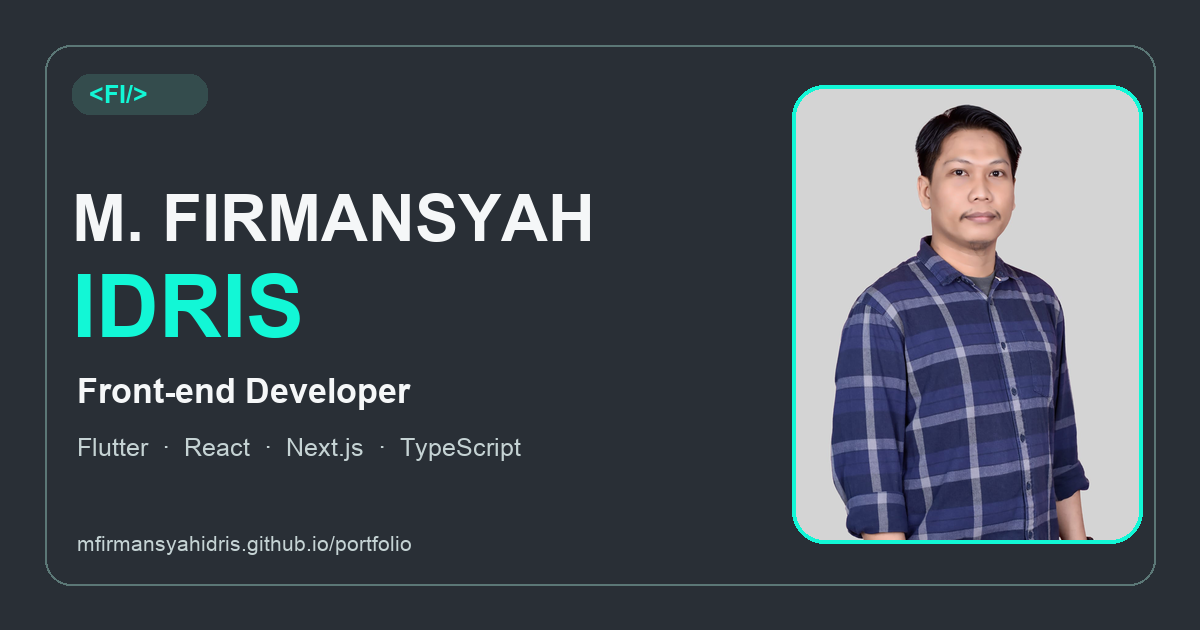
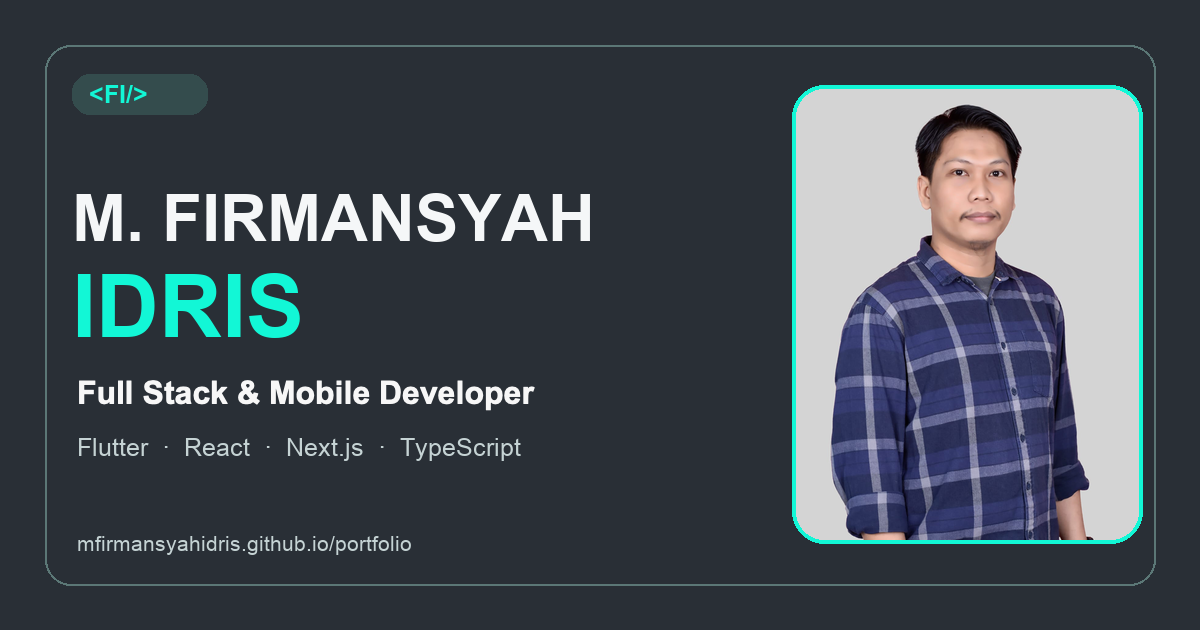
Update title, experience timeline, and apps
- Retitle to Full Stack & Mobile Developer, including the social preview image
- Replace experience with eight roles, each with location, summary, and tech stack
- Add One Sunnah to published apps
- Fix heading order, simplify hero, and unify status badge colors

Changed region(s): [[0.0617, 0.6032, 0.4625, 0.6635]]

diff --git a/style.css b/style.css
@@ -1,12 +1,12 @@
 
-:root{--ink:#f5f7f8;--muted:#bec8cd;--paper:#292f36;--blue:#12f7d6;--line:#465057;--surface:#22282e;--lime:#12f7d6;--mono:"SFMono-Regular",Consolas,"Liberation Mono",monospace}*{box-sizing:border-box}html{scroll-behavior:smooth;scroll-padding-top:50px}body{margin:0;background:var(--paper);color:var(--ink);font-family:Arial,Helvetica,sans-serif;font-size:16px;line-height:1.7}a{color:inherit;text-decoration:none}a:hover{color:var(--blue)}a:focus-visible,button:focus-visible{outline:2px solid var(--blue);outline-offset:5px}p{margin:0 0 22px}h1,h2,h3,h4{line-height:1.2;margin:0;font-weight:500;letter-spacing:-.025em}.wrap{width:min(1260px,calc(100% - 100px));margin:auto}.header{width:min(1380px,calc(100% - 80px));min-height:115px;margin:auto;display:flex;align-items:center;justify-content:space-between;gap:24px;border-bottom:1px solid var(--line);font-family:var(--mono)}.wordmark{font-size:1.35rem;white-space:nowrap}.wordmark>span:first-child{color:var(--blue);font-weight:700}.brand-last{color:var(--ink)}nav{display:flex;gap:28px;font-size:.9rem}.nav-cv{font-size:.85rem;color:var(--blue)}.hero{padding:36px 0 45px}.hero-title{text-align:center;font-size:clamp(3rem,6.5vw,6rem);line-height:1.2;color:#98faec;font-weight:300;letter-spacing:-.035em;margin-bottom:45px}.hero-layout{display:grid;grid-template-columns:290px minmax(0,1fr) 155px;gap:45px;align-items:center}.profile-card{border:2px solid #dce7e7;border-radius:110px 0 110px 0;box-shadow:-5px -5px 0 #12f7d6;padding:28px 22px 35px;font-family:var(--mono);text-align:center}.profile-card>img{display:block;width:106px;height:106px;object-fit:cover;object-position:50% 9%;border-radius:50%;border:3px solid var(--blue);margin:0 auto 16px}.profile-card h2{font-size:1.75rem}.profile-role{font-size:.78rem;margin:5px 0 23px}.profile-details{list-style:none;padding:0;margin:0;text-align:left;font-size:.72rem}.profile-details li{display:flex;align-items:center;gap:9px;margin-bottom:10px}.profile-details li>span{color:var(--blue);width:20px;flex-shrink:0}.profile-details a{overflow-wrap:anywhere}.profile-tags{display:flex;gap:7px;margin:20px 0;justify-content:center}.profile-tags span{background:var(--blue);color:#173530;border-radius:20px;padding:2px 8px;font-size:.67rem;font-weight:700}.button{display:inline-block;padding:12px 22px;border-radius:30px;border:0;cursor:pointer;font:inherit;font-size:.9rem}.resume{background:#f5f7f8;color:#292f36}.resume:hover{background:var(--blue);color:#182b2a}.code-tag{font-family:var(--mono);font-size:.85rem;color:#7ed8cb}.hero-copy h1{font-size:clamp(2rem,3.1vw,3.15rem);line-height:1.3;margin:8px 0 8px 15px;letter-spacing:-.035em}.hero-copy em{font-style:normal;color:var(--blue)}.intro-block{margin-top:23px}.intro{font-size:.94rem;color:var(--muted);margin:8px 0 8px 15px;max-width:530px}.talk-link{display:inline-flex;gap:18px;align-items:center;color:var(--blue);font-family:var(--mono);font-size:1.4rem;margin:25px 0 0 15px}.talk-link span{display:grid;place-items:center;width:38px;height:38px;background:#38434a;border-radius:50%;font-size:1.2rem}.hero-facts{background:#1f252b;border-radius:48px;padding:30px 20px;display:flex;flex-direction:column;gap:28px}.hero-facts>div{display:flex;align-items:center;gap:12px}.hero-facts strong{font-size:2rem;color:var(--blue);font-weight:400;white-space:nowrap}.hero-facts span{font-size:.7rem;line-height:1.5}.hero-location{text-align:center;color:var(--muted);font-family:var(--mono);font-size:.72rem;margin:35px 0 0}.stack-band{background:#23292f;border-top:1px solid var(--line);border-bottom:1px solid var(--line);padding:22px 0}.stack-band .wrap{display:flex;justify-content:space-between;align-items:center;gap:25px}.stack-band span{font:.75rem var(--mono);color:var(--blue)}.stack-band p{margin:0;color:var(--muted);font-family:var(--mono);font-size:.9rem}.stack-band b{color:var(--blue);margin:0 12px;font-weight:400}.section{padding:90px 0}.eyebrow{font: .75rem var(--mono);letter-spacing:.12em;color:var(--blue);margin-bottom:20px}h2{font-size:clamp(2rem,3.6vw,3.4rem)}.section-heading{display:grid;grid-template-columns:1fr 1fr;gap:90px;align-items:end;margin-bottom:45px}.section-heading>p{color:var(--muted);max-width:500px;margin:0}.about-section{background:#22282e;border-top:1px solid var(--line);border-bottom:1px solid var(--line)}.about-grid{display:grid;grid-template-columns:1fr 1fr;gap:100px}.about-grid h2{border:1px solid var(--blue);border-radius:28px 0 28px 0;padding:20px 25px;margin-bottom:28px;font-size:2.5rem}.about-grid>div>p:not(.eyebrow){color:var(--muted)}.education{padding-top:25px;margin-top:30px;border-top:1px solid var(--line)}.education>span{color:var(--blue);font:.8rem var(--mono)}.education p{font-size:.9rem;color:var(--muted);margin-top:10px}.experience>h3{font:1.1rem var(--mono);margin-bottom:23px}.experience-row{position:relative;border-left:1px solid #46635f;padding:0 0 26px 24px}.experience-row:before{content:"";position:absolute;width:7px;height:7px;left:-4px;top:8px;background:var(--blue);border-radius:50%}.experience-row h4{font-size:1.15rem}.experience-row p{font-size:.85rem;color:#a4e6de;margin:6px 0 3px}.experience-row span{font-size:.8rem;color:var(--muted)}.text-link{color:var(--blue);text-decoration:underline;text-underline-offset:6px;font-size:.9rem}.contact{text-align:center}.contact h2{color:var(--blue);font-family:var(--mono)}.contact>p:not(.eyebrow){color:var(--muted);margin-top:25px}.email{display:inline-block;border:1px solid var(--blue);border-radius:28px 0 28px 0;padding:17px 25px;font:clamp(.95rem,2vw,1.35rem) var(--mono);overflow-wrap:anywhere;max-width:100%}.contact-links{display:flex;justify-content:center;gap:35px;margin-top:30px;font:.85rem var(--mono);color:var(--blue)}.footer{border-top:1px solid var(--line);display:flex;justify-content:space-between;gap:20px;padding:25px 0;font-size:.75rem;color:var(--muted)}.skip{position:absolute;top:-100px;background:var(--blue);color:#111;padding:12px;z-index:20}.skip:focus{top:10px}.secondary{background:transparent;color:var(--ink);border:1px solid var(--line)}
+:root{--ink:#f5f7f8;--muted:#bec8cd;--paper:#292f36;--blue:#12f7d6;--line:#465057;--surface:#22282e;--lime:#12f7d6;--mono:"SFMono-Regular",Consolas,"Liberation Mono",monospace}*{box-sizing:border-box}html{scroll-behavior:smooth;scroll-padding-top:50px}body{margin:0;background:var(--paper);color:var(--ink);font-family:Arial,Helvetica,sans-serif;font-size:16px;line-height:1.7}a{color:inherit;text-decoration:none}a:hover{color:var(--blue)}a:focus-visible,button:focus-visible{outline:2px solid var(--blue);outline-offset:5px}p{margin:0 0 22px}h1,h2,h3,h4{line-height:1.2;margin:0;font-weight:500;letter-spacing:-.025em}.wrap{width:min(1260px,calc(100% - 100px));margin:auto}.header{width:min(1380px,calc(100% - 80px));min-height:115px;margin:auto;display:flex;align-items:center;justify-content:space-between;gap:24px;border-bottom:1px solid var(--line);font-family:var(--mono)}.wordmark{font-size:1.35rem;white-space:nowrap}.wordmark>span:first-child{color:var(--blue);font-weight:700}.brand-last{color:var(--ink)}nav{display:flex;gap:28px;font-size:.9rem}.nav-cv{font-size:.85rem;color:var(--blue)}.hero{padding:36px 0 45px}.hero-title{text-align:center;font-size:clamp(3rem,6.5vw,6rem);line-height:1.2;color:#98faec;font-weight:300;letter-spacing:-.035em;margin-bottom:45px}.hero-layout{display:grid;grid-template-columns:290px minmax(0,1fr) 155px;gap:45px;align-items:center}.profile-card{border:2px solid #dce7e7;border-radius:110px 0 110px 0;box-shadow:-5px -5px 0 #12f7d6;padding:28px 22px 35px;font-family:var(--mono);text-align:center}.profile-card>img{display:block;width:106px;height:106px;object-fit:cover;object-position:50% 9%;border-radius:50%;border:3px solid var(--blue);margin:0 auto 16px}.profile-name{font-size:1.75rem;line-height:1.2;letter-spacing:-.025em;margin:0}.profile-role{font-size:.78rem;margin:5px 0 23px}.profile-details{list-style:none;padding:0;margin:0;text-align:left;font-size:.72rem}.profile-details li{display:flex;align-items:center;gap:9px;margin-bottom:10px}.profile-details li>span{color:var(--blue);width:20px;flex-shrink:0}.profile-details a{overflow-wrap:anywhere}.profile-tags{display:flex;gap:7px;margin:20px 0;justify-content:center}.profile-tags span{background:var(--blue);color:#173530;border-radius:20px;padding:2px 8px;font-size:.67rem;font-weight:700}.button{display:inline-block;padding:12px 22px;border-radius:30px;border:0;cursor:pointer;font:inherit;font-size:.9rem}.resume{background:#f5f7f8;color:#292f36}.resume:hover{background:var(--blue);color:#182b2a}.code-tag{font-family:var(--mono);font-size:.85rem;color:#7ed8cb}.hero-copy h1{font-size:clamp(2rem,3.1vw,3.15rem);line-height:1.3;margin:8px 0 8px 15px;letter-spacing:-.035em}.hero-copy em{font-style:normal;color:var(--blue)}.intro-block{margin-top:23px}.intro{font-size:.94rem;color:var(--muted);margin:8px 0 8px 15px;max-width:530px}.talk-link{display:inline-flex;gap:18px;align-items:center;color:var(--blue);font-family:var(--mono);font-size:1.4rem;margin:25px 0 0 15px}.talk-link span{display:grid;place-items:center;width:38px;height:38px;background:#38434a;border-radius:50%;font-size:1.2rem}.hero-facts{background:#1f252b;border-radius:48px;padding:30px 20px;display:flex;flex-direction:column;gap:28px}.hero-facts>div{display:flex;align-items:center;gap:12px}.hero-facts strong{font-size:2rem;color:var(--blue);font-weight:400;white-space:nowrap}.hero-facts span{font-size:.7rem;line-height:1.5}.hero-location{text-align:center;color:var(--muted);font-family:var(--mono);font-size:.72rem;margin:35px 0 0}.stack-band{background:#23292f;border-top:1px solid var(--line);border-bottom:1px solid var(--line);padding:22px 0}.stack-band .wrap{display:flex;justify-content:space-between;align-items:center;gap:25px}.stack-band span{font:.75rem var(--mono);color:var(--blue)}.stack-band p{margin:0;color:var(--muted);font-family:var(--mono);font-size:.9rem}.stack-band b{color:var(--blue);margin:0 12px;font-weight:400}.section{padding:90px 0}.eyebrow{font: .75rem var(--mono);letter-spacing:.12em;color:var(--blue);margin-bottom:20px}h2{font-size:clamp(2rem,3.6vw,3.4rem)}.section-heading{display:grid;grid-template-columns:1fr 1fr;gap:90px;align-items:end;margin-bottom:45px}.section-heading>p{color:var(--muted);max-width:500px;margin:0}.about-section{background:#22282e;border-top:1px solid var(--line);border-bottom:1px solid var(--line)}.about-grid{display:grid;grid-template-columns:1fr 1fr;gap:100px}.about-grid h2{border:1px solid var(--blue);border-radius:28px 0 28px 0;padding:20px 25px;margin-bottom:28px;font-size:2.5rem}.about-grid>div>p:not(.eyebrow){color:var(--muted)}.education{padding-top:25px;margin-top:30px;border-top:1px solid var(--line)}.education>span{color:var(--blue);font:.8rem var(--mono)}.education p{font-size:.9rem;color:var(--muted);margin-top:10px}.experience>h3{font:1.1rem var(--mono);margin-bottom:23px}.experience-row{position:relative;border-left:1px solid #46635f;padding:0 0 26px 24px}.experience-row:before{content:"";position:absolute;width:7px;height:7px;left:-4px;top:8px;background:var(--blue);border-radius:50%}.experience-row h4{font-size:1.15rem}.experience-row p{font-size:.85rem;color:#a4e6de;margin:6px 0 3px}.experience-row span{font-size:.8rem;color:var(--muted)}.text-link{color:var(--blue);text-decoration:underline;text-underline-offset:6px;font-size:.9rem}.contact{text-align:center}.contact h2{color:var(--blue);font-family:var(--mono)}.contact>p:not(.eyebrow){color:var(--muted);margin-top:25px}.email{display:inline-block;border:1px solid var(--blue);border-radius:28px 0 28px 0;padding:17px 25px;font:clamp(.95rem,2vw,1.35rem) var(--mono);overflow-wrap:anywhere;max-width:100%}.contact-links{display:flex;justify-content:center;gap:35px;margin-top:30px;font:.85rem var(--mono);color:var(--blue)}.footer{border-top:1px solid var(--line);display:flex;justify-content:space-between;gap:20px;padding:25px 0;font-size:.75rem;color:var(--muted)}.skip{position:absolute;top:-100px;background:var(--blue);color:#111;padding:12px;z-index:20}.skip:focus{top:10px}.secondary{background:transparent;color:var(--ink);border:1px solid var(--line)}
 @media(max-width:1100px){.hero-layout{grid-template-columns:260px 1fr;gap:40px}.hero-facts{grid-column:1/-1;flex-direction:row;justify-content:center;gap:50px;padding:20px;border-radius:18px}.hero-facts span{font-size:.8rem}.hero-copy h1{font-size:2.6rem}.brand-last{display:none}.about-grid{gap:45px}}@media(max-width:700px){.wrap,.header{width:calc(100% - 40px)}.header{min-height:90px;flex-wrap:wrap;justify-content:center;gap:12px;padding:17px 0}.wordmark{font-size:1.2rem}.header nav{gap:20px;font-size:.75rem}.nav-cv{display:none}.hero{padding-top:25px}.hero-title{font-size:3.4rem;margin-bottom:35px}.hero-layout{display:flex;flex-direction:column;gap:35px}.profile-card{width:285px;max-width:100%;padding-bottom:28px}.hero-copy{width:100%}.hero-copy h1{font-size:clamp(1.8rem,7.5vw,2.7rem)}.intro{font-size:.94rem}.hero-facts{width:100%;gap:18px;padding:18px 10px;justify-content:space-around}.hero-facts>div{display:block;text-align:center}.hero-facts strong{font-size:1.65rem}.hero-facts span{display:block;font-size:.7rem;margin-top:3px}.hero-location{font-size:.7rem}.stack-band .wrap{display:block}.stack-band p{margin-top:10px;font-size:.8rem;line-height:2}.stack-band b{margin:0 7px}.section{padding:60px 0}.section-heading,.about-grid{grid-template-columns:1fr;gap:25px}.section-heading{margin-bottom:30px}.about-grid{gap:40px}.about-grid h2{font-size:2rem}.contact-links{gap:25px}.footer{flex-wrap:wrap}.footer span:first-child{width:100%}}@media(prefers-reduced-motion:reduce){html{scroll-behavior:auto}}
 /* Approach and interactive React demo */
 .approach-grid{display:grid;grid-template-columns:repeat(3,1fr);gap:28px}.approach{border-top:2px solid var(--ink);padding-top:24px}.approach-number{display:block;color:var(--blue);font-size:.8rem;font-weight:700;margin-bottom:26px}.approach h3{font-size:1.45rem;margin-bottom:18px;letter-spacing:-.035em}.approach p{font-size:.95rem;color:var(--muted)}.approach-foot{display:block;font-size:.8rem;color:var(--muted)}.demo-heading{display:grid;grid-template-columns:1fr 1fr;gap:50px;margin:70px 0 26px;align-items:end}.demo-heading .eyebrow{color:var(--blue);margin-bottom:14px}.demo-heading h3{font-size:2rem}.demo-heading>p{color:var(--muted);font-size:.95rem;margin:0}.dashboard{background:var(--surface);border:1px solid var(--line);border-radius:10px;padding:28px}.dashboard-top{display:flex;justify-content:space-between;align-items:center;gap:20px}.demo-kicker{font-size:.75rem;letter-spacing:.08em;color:var(--muted);font-weight:700}.dashboard-top h4{font-size:1.4rem;margin-top:8px}.sample-badge{padding:5px 12px;background:white;border:1px solid var(--line);border-radius:20px;color:var(--muted);font-size:.8rem}.metrics{display:grid;grid-template-columns:repeat(3,1fr);gap:14px;margin:25px 0}.metric{background:white;border:1px solid var(--line);padding:18px 22px;border-radius:6px}.metric span{display:block;color:var(--muted);font-size:.8rem}.metric strong{font-size:2rem;line-height:1.4}.demo-controls{display:grid;grid-template-columns:2fr 1fr 1fr;gap:14px}.demo-controls label{font-size:.8rem;font-weight:600}.demo-controls input,.demo-controls select{display:block;width:100%;margin-top:6px;min-height:44px;border:1px solid #adb9cd;border-radius:5px;background:white;color:var(--ink);padding:10px;font:inherit;font-size:.9rem}.demo-controls input:focus-visible,.demo-controls select:focus-visible,.dashboard button:focus-visible{outline:3px solid var(--blue);outline-offset:3px}.result-count{font-size:.8rem;color:var(--muted);margin:18px 0 12px}.demo-content{display:grid;grid-template-columns:1.8fr 1fr;gap:18px;align-items:start}.project-list{background:white;border:1px solid var(--line);border-radius:6px;overflow:hidden}.demo-row{display:grid;grid-template-columns:1.5fr 1fr .6fr;gap:12px;text-align:left;align-items:center;width:100%;padding:18px;border:0;border-bottom:1px solid var(--line);background:white;color:var(--ink);cursor:pointer;font:inherit}.demo-row:last-child{border-bottom:0}.demo-row:hover{background:#f4f6ff}.demo-row.selected{background:#e9edff;box-shadow:inset 3px 0 var(--blue)}.row-title strong{font-size:.88rem;display:block}.row-title>span{font-size:.75rem;display:block;color:var(--muted);margin-top:3px}.status{font-size:.72rem;padding:4px 8px;border-radius:4px;justify-self:start;white-space:nowrap;background:#edf0f5;color:#4b596d}.status-in-progress{background:#e8edff;color:#2945a6}.status-in-review{background:#fff2d7;color:#825710}.status-completed{background:#e2f3e8;color:#276243}.progress-cell>span{font-size:.75rem;color:var(--muted)}.progress-track{height:4px;background:#e4e9f1;border-radius:3px;margin-top:5px}.progress-track>span{display:block;height:4px;background:var(--blue);border-radius:3px}.detail-panel{padding:22px;background:var(--ink);border-radius:6px;color:white;min-height:250px}.detail-panel h4{font-size:1.25rem;margin:18px 0 14px}.detail-panel p,.detail-panel li{font-size:.85rem;color:#c2cde0}.detail-panel .demo-kicker{color:#c2cde0}.detail-top{display:flex;justify-content:space-between;gap:10px}.close-detail{background:transparent;border:0;color:#d4f278;cursor:pointer;font:inherit;font-size:.8rem;padding:0}.detail-panel dl{display:grid;grid-template-columns:1fr 1fr;font-size:.8rem;gap:8px;border-top:1px solid #354154;padding-top:15px}.detail-panel dt{color:#c2cde0}.detail-panel dd{margin:0;text-align:right}.detail-panel h5{font-size:.85rem;margin:20px 0 8px}.detail-panel ul{padding-left:18px;margin:0}.demo-bottom{margin-top:20px;font-size:.75rem;color:var(--muted)}.empty-state{padding:30px;text-align:center}.empty-state p{font-size:.85rem;color:var(--muted);margin:12px 0}.demo-fallback{padding:25px;background:var(--surface)}@media(max-width:900px){.approach-grid{gap:20px}.demo-content{grid-template-columns:1fr}.detail-panel{min-height:0}.demo-heading{gap:25px}}@media(max-width:640px){.approach-grid,.demo-heading{grid-template-columns:1fr}.approach{padding-top:18px}.approach-number{margin-bottom:14px}.demo-heading{margin-top:45px;gap:15px}.dashboard{padding:16px}.dashboard-top{align-items:start}.sample-badge{white-space:nowrap;font-size:.7rem}.metrics{gap:8px}.metric{padding:12px}.metric span{font-size:.72rem}.metric strong{font-size:1.6rem}.demo-controls{grid-template-columns:1fr 1fr}.demo-controls label:first-child{grid-column:1/-1}.demo-row{grid-template-columns:1fr auto;padding:14px;gap:8px}.progress-cell{grid-column:1/-1}.progress-track{max-width:100%}.demo-controls input,.demo-controls select{font-size:1rem}}
 
 
 /* Match the playground to the developer palette. */
-.approach{border:1px solid var(--line);border-top:3px solid var(--blue);border-radius:8px;background:#242b31;padding:25px}.approach-number{color:var(--blue);font-family:var(--mono);margin-bottom:24px}.approach h3{font-size:1.35rem}.approach-foot{font-family:var(--mono);font-size:.72rem}.demo-heading{border-top:1px solid var(--line);padding-top:50px;margin-top:60px}.demo-heading h3{font-size:1.9rem}.dashboard{background:#20272d;border-color:#48545c;border-radius:12px}.sample-badge{background:#303d43;border-color:#4a6066;color:#b6e9df}.metric{background:#29343a;border-color:#43525a}.metric strong{color:var(--blue)}.demo-controls input,.demo-controls select{background:#242e34;color:var(--ink);border-color:#53656e}.project-list{background:#242e34}.demo-row{background:#242e34;color:var(--ink)}.demo-row:hover{background:#304147}.demo-row.selected{background:#284841;box-shadow:inset 3px 0 var(--blue)}.status{background:#3a464e;color:#dbe4e9}.status-in-progress{background:#214b46;color:#a3efe0}.status-in-review{background:#4f432a;color:#f1d693}.status-completed{background:#254b38;color:#b6efca}.progress-track{background:#45555b}.progress-track>span{background:var(--blue)}.detail-panel{background:#303f44;color:var(--ink);border:1px solid #50676d}.detail-panel p,.detail-panel li,.detail-panel .demo-kicker,.detail-panel dt{color:#c2d5d8}.detail-panel dl{border-color:#53676c}.close-detail{color:var(--blue)}.demo-bottom{font-family:var(--mono)}.dashboard button:focus-visible{outline-color:var(--blue);outline-offset:-3px}@media(max-width:640px){.approach{padding:22px}.demo-heading{padding-top:30px}.dashboard{padding:16px}}
+.approach{border:1px solid var(--line);border-top:3px solid var(--blue);border-radius:8px;background:#242b31;padding:25px}.approach-number{color:var(--blue);font-family:var(--mono);margin-bottom:24px}.approach h3{font-size:1.35rem}.approach-foot{font-family:var(--mono);font-size:.72rem}.demo-heading{border-top:1px solid var(--line);padding-top:50px;margin-top:60px}.demo-heading h2{font-size:1.9rem}.dashboard{background:#20272d;border-color:#48545c;border-radius:12px}.sample-badge{background:#303d43;border-color:#4a6066;color:#b6e9df}.metric{background:#29343a;border-color:#43525a}.metric strong{color:var(--blue)}.demo-controls input,.demo-controls select{background:#242e34;color:var(--ink);border-color:#53656e}.project-list{background:#242e34}.demo-row{background:#242e34;color:var(--ink)}.demo-row:hover{background:#304147}.demo-row.selected{background:#284841;box-shadow:inset 3px 0 var(--blue)}.status{background:#3a464e;color:#dbe4e9}.status-in-progress{background:#214b46;color:#a3efe0}.status-in-review{background:#4f432a;color:#f1d693}.status-completed{background:#254b38;color:#b6efca}.progress-track{background:#45555b}.progress-track>span{background:var(--blue)}.detail-panel{background:#303f44;color:var(--ink);border:1px solid #50676d}.detail-panel p,.detail-panel li,.detail-panel .demo-kicker,.detail-panel dt{color:#c2d5d8}.detail-panel dl{border-color:#53676c}.close-detail{color:var(--blue)}.demo-bottom{font-family:var(--mono)}.dashboard button:focus-visible{outline-color:var(--blue);outline-offset:-3px}@media(max-width:640px){.approach{padding:22px}.demo-heading{padding-top:30px}.dashboard{padding:16px}}
 
 .published-heading{display:grid;grid-template-columns:1.3fr 1fr;gap:50px;align-items:end;border-top:1px solid var(--line);padding-top:55px;margin-top:65px;margin-bottom:30px}.published-heading>p{color:var(--muted);margin:0}.published-heading h2{font-size:2.4rem}.published-grid{display:grid;grid-template-columns:1fr 1fr;gap:24px}.published-card{display:flex;flex-direction:column;padding:30px;border:1px solid #50646a;background:#222b31;border-radius:24px 4px 24px 4px}.app-meta{display:flex;justify-content:space-between;align-items:center;gap:15px;font-family:var(--mono);font-size:.68rem;color:var(--muted);margin-bottom:27px}.store-status{color:#9af4df;border:1px solid #48675f;padding:4px 9px;border-radius:20px;white-space:nowrap}.published-card h3{font-size:2.2rem;color:var(--blue);margin-bottom:16px}.published-card>p{font-size:.95rem;color:var(--muted)}.app-features{display:flex;flex-wrap:wrap;gap:8px;list-style:none;padding:0;margin:0 0 28px}.app-features li{font-size:.75rem;background:#303e43;padding:5px 10px;border-radius:5px;color:#d1e1e4}.app-links{display:flex;gap:22px;align-items:center;flex-wrap:wrap;margin-top:auto}.app-store-link{background:var(--blue);color:#173530;font-weight:600;font-size:.85rem}.app-store-link:hover{background:#98faec;color:#173530}@media(max-width:700px){.published-heading,.published-grid{grid-template-columns:1fr;gap:22px}.published-heading{margin-top:45px;padding-top:35px}.published-heading h2{font-size:2rem}.published-card{padding:24px}.header nav{gap:15px}}
 
@@ -14,4 +14,14 @@
 
 .profile-tags{flex-wrap:wrap}
 
+/* One accent colour: status badges use teal tints and neutrals instead of yellow. */
+.status-in-review{background:#2d3a40;color:#d6eef0;box-shadow:inset 0 0 0 1px #4f666d}.status-completed{background:#12f7d6;color:#173530;font-weight:700}
+
+/* Gentle hover feedback on cards. */
+.approach,.published-card{transition:transform .2s ease,border-color .2s ease}.approach:hover,.published-card:hover{transform:translateY(-3px);border-color:var(--blue)}@media(prefers-reduced-motion:reduce){.approach,.published-card{transition:none}.approach:hover,.published-card:hover{transform:none}}
+
 .experience-heading{display:flex;align-items:baseline;justify-content:space-between;gap:10px;flex-wrap:wrap}.experience-heading h4{margin:0}.experience-heading time{font: .72rem var(--mono);color:var(--blue);white-space:nowrap}@media(max-width:700px){.experience-heading{display:block}.experience-heading time{display:block;margin-top:5px}}
+
+.experience-row>span{display:block}.experience-stack{display:flex;flex-wrap:wrap;gap:6px;list-style:none;padding:0;margin:10px 0 0}.experience-stack li{font:.68rem var(--mono);color:#cfe4e6;background:#2d3a40;border:1px solid #43525a;border-radius:4px;padding:2px 8px}
+
+.published-grid{grid-template-columns:repeat(auto-fit,minmax(300px,1fr))}.app-icon-fallback{display:grid;place-items:center;width:64px;height:64px;flex-shrink:0;border-radius:15px;background:#303e43;border:1px solid #50646a;color:var(--blue);font:700 1.3rem var(--mono)}

diff --git a/index.html b/index.html
@@ -2,23 +2,23 @@
 <html lang="en">
 <head>
 <meta charset="utf-8"><meta name="viewport" content="width=device-width,initial-scale=1">
-<meta name="description" content="Firmansyah Idris — Front-end Developer based in Indonesia. React, Next.js, and mobile development. Explore selected work and experience.">
+<meta name="description" content="Firmansyah Idris — Full Stack &amp; Mobile Developer based in Indonesia. Flutter, React, Next.js, and mobile development. Explore selected work and experience.">
 <meta name="theme-color" content="#292f36">
 <meta property="og:type" content="website">
 <meta property="og:url" content="https://mfirmansyahidris.github.io/portfolio/">
-<meta property="og:title" content="M. Firmansyah Idris · Front-end Developer">
+<meta property="og:title" content="M. Firmansyah Idris · Full Stack &amp; Mobile Developer">
 <meta property="og:description" content="Explore my work in Flutter, React, Next.js, and mobile development.">
 <meta property="og:image" content="https://mfirmansyahidris.github.io/portfolio/assets/social-preview.png">
 <meta property="og:image:secure_url" content="https://mfirmansyahidris.github.io/portfolio/assets/social-preview.png">
 <meta property="og:image:type" content="image/png">
 <meta property="og:image:width" content="1200">
 <meta property="og:image:height" content="630">
-<meta property="og:image:alt" content="M. Firmansyah Idris — Front-end Developer portfolio">
+<meta property="og:image:alt" content="M. Firmansyah Idris — Full Stack &amp; Mobile Developer portfolio">
 <meta name="twitter:card" content="summary_large_image">
-<meta name="twitter:title" content="M. Firmansyah Idris · Front-end Developer">
+<meta name="twitter:title" content="M. Firmansyah Idris · Full Stack &amp; Mobile Developer">
 <meta name="twitter:description" content="Explore my work in Flutter, React, Next.js, and mobile development.">
 <meta name="twitter:image" content="https://mfirmansyahidris.github.io/portfolio/assets/social-preview.png">
-<title>Firmansyah Idris · Front-end Developer</title>
+<title>Firmansyah Idris · Full Stack &amp; Mobile Developer</title>
 <link rel="icon" href="assets/favicon.svg" type="image/svg+xml">
 <link rel="stylesheet" href="style.css">
 </head>
@@ -26,7 +26,7 @@
 <a class="skip" href="#main">Skip to content</a>
 <header class="header"><a class="wordmark" href="#home" aria-label="Firmansyah Idris home"><span>&lt;FI/&gt;</span> Firmansyah<span class="brand-last">Idris</span></a><nav aria-label="Main navigation"><a href="#work">Skills</a><a href="#apps">Apps</a><a href="#playground">Playground</a><a href="#about">Experience</a></nav><a class="nav-cv" href="https://www.linkedin.com/in/m-firmansyah-idris-126588192" target="_blank" rel="noopener"><svg class="linkedin-icon" viewBox="0 0 24 24" aria-hidden="true" focusable="false" fill="currentColor"><path d="M20.45 2H3.55C2.69 2 2 2.68 2 3.52v16.96c0 .84.69 1.52 1.55 1.52h16.9c.86 0 1.55-.68 1.55-1.52V3.52c0-.84-.69-1.52-1.55-1.52ZM7.93 18.75H4.98V9.2h2.95v9.55ZM6.45 7.9a1.71 1.71 0 1 1 0-3.42 1.71 1.71 0 0 1 0 3.42Zm12.3 10.85H15.8V14.1c0-1.11-.02-2.53-1.54-2.53-1.54 0-1.78 1.2-1.78 2.45v4.73H9.53V9.2h2.83v1.3h.04c.39-.74 1.36-1.52 2.79-1.52 2.98 0 3.56 1.96 3.56 4.5v5.27Z"/></svg><span>LinkedIn</span></a></header>
 <main id="main">
-<section class="hero wrap" id="home"><p class="hero-title">Developer</p><div class="hero-layout"><aside class="profile-card"><img src="assets/profile.png" alt="Firmansyah Idris" width="1142" height="1600" fetchpriority="high"><h2>Firmansyah</h2><p class="profile-role">Front-end Developer</p><ul class="profile-details"><li><span>@</span><a href="mailto:mfirmansyah.idris@gmail.com">mfirmansyah.idris@gmail.com</a></li><li><span>⌖</span>Makassar, Indonesia</li><li><span>&lt;/&gt;</span>Web & mobile development</li></ul><div class="profile-tags"><span>FLUTTER</span><span>REACT</span><span>NEXT.JS</span><span>TS</span><span>JS</span></div><a class="button resume" href="assets/Firmansyah-Idris-CV.pdf" target="_blank" rel="noopener">View résumé</a></aside><div class="hero-copy"><span class="code-tag" aria-hidden="true">&lt;h1&gt;</span><h1>Hey,<br>I’m <em>Firmansyah</em>,<br>Front-end Developer</h1><span class="code-tag" aria-hidden="true">&lt;/h1&gt;</span><div class="intro-block"><span class="code-tag" aria-hidden="true">&lt;p&gt;</span><p class="intro">I build thoughtful interfaces with React and Next.js. With experience across web and mobile development, I connect complex workflows into clear, usable experiences.</p><span class="code-tag" aria-hidden="true">&lt;/p&gt;</span></div><a class="talk-link" href="#contact">Let’s talk <span aria-hidden="true">✉</span></a></div><div class="hero-facts"><div><strong>~5</strong><span>Years<br>with React</span></div><div><strong>5+</strong><span>Years in mobile<br>development</span></div><div><strong>3</strong><span>International<br>team locations</span></div></div></div><p class="hero-location">Collaborating across Singapore, South Korea, and Hong Kong.</p></section>
+<section class="hero wrap" id="home"><p class="hero-title">Developer</p><div class="hero-layout"><aside class="profile-card"><img src="assets/profile.png" alt="Firmansyah Idris" width="1142" height="1600" fetchpriority="high"><p class="profile-name">Firmansyah</p><p class="profile-role">Full Stack &amp; Mobile Developer</p><ul class="profile-details"><li><span>@</span><a href="mailto:mfirmansyah.idris@gmail.com">mfirmansyah.idris@gmail.com</a></li><li><span>⌖</span>Makassar, Indonesia</li><li><span>&lt;/&gt;</span>Web & mobile development</li></ul><div class="profile-tags"><span>FLUTTER</span><span>REACT</span><span>NEXT.JS</span><span>TS</span><span>JS</span></div><a class="button resume" href="assets/Firmansyah-Idris-CV.pdf" target="_blank" rel="noopener">View résumé</a></aside><div class="hero-copy"><span class="code-tag" aria-hidden="true">&lt;h1&gt;</span><h1>Hey,<br>I’m <em>Firmansyah</em>,<br>Full Stack &amp; Mobile Developer</h1><span class="code-tag" aria-hidden="true">&lt;/h1&gt;</span><div class="intro-block"><p class="intro">I build thoughtful interfaces with React and Next.js. With experience across web and mobile development, I connect complex workflows into clear, usable experiences.</p></div><a class="talk-link" href="#contact">Let’s talk <span aria-hidden="true">✉</span></a></div><div class="hero-facts"><div><strong>~5</strong><span>Years<br>with React</span></div><div><strong>5+</strong><span>Years in mobile<br>development</span></div><div><strong>3</strong><span>International<br>team locations</span></div></div></div><p class="hero-location">Collaborating across Singapore, South Korea, and Hong Kong.</p></section>
 <div class="stack-band"><div class="wrap"><span>MY TOOLKIT</span><p>Flutter <b>·</b> React <b>·</b> Next.js <b>·</b> TypeScript <b>·</b> JavaScript</p></div></div>
 <section class="wrap section" id="work">
 <div class="section-heading"><div><p class="eyebrow">01 / SKILLS & APPROACH</p><h2>Built with purpose.</h2></div><p>My approach to building connected user experiences, informed by work with international product and engineering teams.</p></div>
@@ -39,12 +39,13 @@
 <div class="published-grid">
 <article class="published-card"><div class="app-meta"><span>HEALTH & FITNESS</span><span class="store-status">On Google Play</span></div><div class="app-identity"><img src="assets/wellio-icon.png" alt="" width="64" height="64" loading="lazy"><h3>Wellio</h3></div><p>A daily wellness companion with personalized plans, workouts, meal ideas, reminders, and progress tracking. Plans and progress are stored on the device, with no account required.</p><ul class="app-features"><li>Daily planning</li><li>Workout routines</li><li>Progress tracking</li></ul><div class="app-links"><a class="button app-store-link" href="https://play.google.com/store/apps/details?id=fi.dev.wellio" target="_blank" rel="noopener">View on Google Play</a><a class="text-link" href="https://github.com/mfirmansyahidris/wellio" target="_blank" rel="noopener">Source code</a></div></article>
 <article class="published-card"><div class="app-meta"><span>GARDENING</span><span class="store-status">On Google Play</span></div><div class="app-identity"><img src="assets/tanami-icon.png" alt="" width="64" height="64" loading="lazy"><h3>Tanami</h3></div><p>A gardening companion with offline plant guides, garden tracking, and optional AI-powered photo analysis. Designed to help people plan and follow their growing journey.</p><ul class="app-features"><li>Offline guides</li><li>Garden tracking</li><li>Photo analysis</li></ul><div class="app-links"><a class="button app-store-link" href="https://play.google.com/store/apps/details?id=fi.dev.tanami" target="_blank" rel="noopener">View on Google Play</a><a class="text-link" href="https://github.com/mfirmansyahidris/tanami" target="_blank" rel="noopener">Source code</a></div></article>
+<article class="published-card"><div class="app-meta"><span>BOOKS &amp; REFERENCE</span><span class="store-status">On Google Play</span></div><div class="app-identity"><span class="app-icon-fallback" aria-hidden="true">OS</span><h3>One Sunnah</h3></div><p>A calm daily reader with one hadith, its published translation, and a sourced explanation. Includes a home-screen widget and offline reading, with no account or ads.</p><ul class="app-features"><li>Daily reading</li><li>Home-screen widget</li><li>5 languages, offline</li></ul><div class="app-links"><a class="button app-store-link" href="https://play.google.com/store/apps/details?id=fi.dev.onesunnah" target="_blank" rel="noopener">View on Google Play</a></div></article>
 </div>
-<div class="demo-heading" id="playground"><div><p class="eyebrow">03 / PLAYGROUND</p><h3>Small details. Real interaction.</h3></div><p>A small React dashboard with search, status filters, sorting, and a detail view. All records are fictional sample data.</p></div>
+<div class="demo-heading" id="playground"><div><p class="eyebrow">03 / PLAYGROUND</p><h2>Small details. Real interaction.</h2></div><p>A small React dashboard with search, status filters, sorting, and a detail view. All records are fictional sample data.</p></div>
 <div id="react-demo"><p class="demo-fallback">The interactive demo requires JavaScript. Enable it to explore the dashboard.</p></div>
 </section>
-<section class="about-section" id="about"><div class="wrap section about-grid"><div><p class="eyebrow">04 / ABOUT ME</p><h2>From individual screens<br>to the whole user journey.</h2><p>I’m a developer based in Makassar, Indonesia, with over five years of mobile development experience and around five years working with React.</p><p>I enjoy translating product requirements into interfaces, connecting them to APIs, and tracking down issues that only appear in real-world use. I’ve worked remotely with product owners, designers, QA, and engineering teams across countries.</p><div class="education"><span>Education</span><p>Bachelor of Informatics Engineering<br>UIN Alauddin Makassar · 2016</p></div></div><div class="experience"><h3>Selected experience</h3><div class="experience-row"><div class="experience-heading"><h4>MUST Company</h4><time>Jan 2024 – Oct 2026</time></div><p>Mobile Developer · South Korea</p><span>Blockchain applications and production troubleshooting</span></div><div class="experience-row"><div class="experience-heading"><h4>AgriG8</h4><time>Apr 2023 – Present</time></div><p>Mobile Developer · Freelance · Singapore</p><span>Mobile application development and offline synchronization</span></div><div class="experience-row"><div class="experience-heading"><h4>WeGeeks</h4><time>Jul 2024 – Sep 2025</time></div><p>Mobile Developer · Indonesia</p><span>Banking applications and production issue investigation</span></div><div class="experience-row"><div class="experience-heading"><h4>Wistkey</h4><time>Mar 2023 – Jul 2023</time></div><p>Senior Software Developer · Hong Kong</p><span>React Native development</span></div><div class="experience-row"><div class="experience-heading"><h4>WGS</h4><time>Feb 2022 – Aug 2023</time></div><p>Frontend Developer (Flutter) · Indonesia</p><span>User interface implementation</span></div><a class="text-link" href="assets/Firmansyah-Idris-CV.pdf" target="_blank" rel="noopener">Read my full CV</a></div></div></section>
-<section class="wrap section contact" id="contact"><p class="eyebrow">05 / SAY HELLO</p><h2>Let’s work together.</h2><p>Have a front-end role or a product you’d like to discuss? Send me an email.</p><a class="email" href="mailto:mfirmansyah.idris@gmail.com">mfirmansyah.idris@gmail.com</a><div class="contact-links"><a href="https://www.linkedin.com/in/m-firmansyah-idris-126588192" target="_blank" rel="noopener"><svg class="linkedin-icon" viewBox="0 0 24 24" aria-hidden="true" focusable="false" fill="currentColor"><path d="M20.45 2H3.55C2.69 2 2 2.68 2 3.52v16.96c0 .84.69 1.52 1.55 1.52h16.9c.86 0 1.55-.68 1.55-1.52V3.52c0-.84-.69-1.52-1.55-1.52ZM7.93 18.75H4.98V9.2h2.95v9.55ZM6.45 7.9a1.71 1.71 0 1 1 0-3.42 1.71 1.71 0 0 1 0 3.42Zm12.3 10.85H15.8V14.1c0-1.11-.02-2.53-1.54-2.53-1.54 0-1.78 1.2-1.78 2.45v4.73H9.53V9.2h2.83v1.3h.04c.39-.74 1.36-1.52 2.79-1.52 2.98 0 3.56 1.96 3.56 4.5v5.27Z"/></svg><span>LinkedIn</span></a><a href="https://github.com/mfirmansyahidris" target="_blank" rel="noopener">GitHub</a><a href="assets/Firmansyah-Idris-CV.pdf" target="_blank" rel="noopener">Download CV</a></div></section>
+<section class="about-section" id="about"><div class="wrap section about-grid"><div><p class="eyebrow">04 / ABOUT ME</p><h2>From individual screens<br>to the whole user journey.</h2><p>I’m a developer based in Makassar, Indonesia, with over five years of mobile development experience and around five years working with React.</p><p>I enjoy translating product requirements into interfaces, connecting them to APIs, and tracking down issues that only appear in real-world use. I’ve worked remotely with product owners, designers, QA, and engineering teams across countries.</p><div class="education"><span>Education</span><p>Bachelor of Informatics Engineering<br>UIN Alauddin Makassar · 2016</p></div></div><div class="experience"><h3>Selected experience</h3><div class="experience-row"><div class="experience-heading"><h4>MUST Company</h4><time>Jan 2024 – Oct 2026</time></div><p>Mobile App Developer · Remote · South Korea</p><span>Built blockchain transaction, investment, and peer-to-peer apps at a fintech company. Worked with a team across South Korea, Indonesia, India, Turkey, and Pakistan, adjusting to different time zones for sync meetings, and troubleshot production issues.</span><ul class="experience-stack" aria-label="Tech stack"><li>Flutter</li><li>Gemini</li><li>Firebase</li></ul></div><div class="experience-row"><div class="experience-heading"><h4>WeGeeks</h4><time>Jul 2024 – Sep 2025</time></div><p>Mobile App Developer · Remote · Jakarta</p><span>Worked at an outsourcing company on a banking client's mobile app, covering package purchases, billing, and transfers, and investigating production issues.</span><ul class="experience-stack" aria-label="Tech stack"><li>Flutter</li></ul></div><div class="experience-row"><div class="experience-heading"><h4>Agit</h4><time>Jan 2024 – Dec 2025</time></div><p>Full Stack Developer · Onsite · Makassar</p><span>Built dashboards, monitoring systems, site alarms, and message handlers for a telecommunications client at an outsourcing company.</span><ul class="experience-stack" aria-label="Tech stack"><li>Express.js</li><li>React</li><li>Vue.js</li><li>PHP</li><li>MySQL</li><li>PostgreSQL</li></ul></div><div class="experience-row"><div class="experience-heading"><h4>AgriG8</h4><time>Apr 2023 – Present</time></div><p>Mobile &amp; Web Developer · Freelance · Remote · Singapore</p><span>Built the farmer-facing and admin applications for an agricultural insurance and lending platform, including offline synchronization.</span><ul class="experience-stack" aria-label="Tech stack"><li>Flutter</li><li>React</li><li>Firebase</li></ul></div><div class="experience-row"><div class="experience-heading"><h4>Wistkey</h4><time>Mar 2023 – Jul 2023</time></div><p>Senior Software Developer · Remote · Hong Kong</p><span>Worked at an IT consultancy with a team across Indonesia, Malaysia, and Hong Kong: an insurance system (web and mobile), a hospital information system (full stack), and the web side of an AI-powered web generator.</span><ul class="experience-stack" aria-label="Tech stack"><li>Next.js</li><li>React</li><li>Laravel</li></ul></div><div class="experience-row"><div class="experience-heading"><h4>WGS</h4><time>Feb 2022 – Aug 2023</time></div><p>Mobile App Developer · Remote · Jakarta</p><span>Built the user-facing mobile app for trading transactions, serving trading and investment clients of a software development company.</span><ul class="experience-stack" aria-label="Tech stack"><li>Flutter</li><li>Firebase</li></ul></div><div class="experience-row"><div class="experience-heading"><h4>PT. Alumagubi Raya</h4><time>Feb 2020 – Sep 2023</time></div><p>Mobile App Developer · Remote · Jakarta</p><span>Built mobile apps at an IT consultancy for clients in Indonesia and Singapore, across online shopping, pet services, beauty clinics, and more.</span><ul class="experience-stack" aria-label="Tech stack"><li>Flutter</li><li>Android (native)</li><li>Firebase</li></ul></div><div class="experience-row"><div class="experience-heading"><h4>PT. Infomedia Nusantara</h4><time>Apr 2017 – Dec 2023</time></div><p>Full Stack Developer · Onsite · Makassar</p><span>Handled dashboard applications for a telecommunications client.</span><ul class="experience-stack" aria-label="Tech stack"><li>PHP</li><li>JavaScript</li><li>TypeScript</li><li>Express.js</li><li>React</li><li>MySQL</li><li>PostgreSQL</li><li>Docker</li></ul></div><a class="text-link" href="assets/Firmansyah-Idris-CV.pdf" target="_blank" rel="noopener">Read my full CV</a></div></div></section>
+<section class="wrap section contact" id="contact"><p class="eyebrow">05 / SAY HELLO</p><h2>Let’s work together.</h2><p>Have a role or a product you’d like to discuss? Send me an email.</p><a class="email" href="mailto:mfirmansyah.idris@gmail.com">mfirmansyah.idris@gmail.com</a><div class="contact-links"><a href="https://www.linkedin.com/in/m-firmansyah-idris-126588192" target="_blank" rel="noopener"><svg class="linkedin-icon" viewBox="0 0 24 24" aria-hidden="true" focusable="false" fill="currentColor"><path d="M20.45 2H3.55C2.69 2 2 2.68 2 3.52v16.96c0 .84.69 1.52 1.55 1.52h16.9c.86 0 1.55-.68 1.55-1.52V3.52c0-.84-.69-1.52-1.55-1.52ZM7.93 18.75H4.98V9.2h2.95v9.55ZM6.45 7.9a1.71 1.71 0 1 1 0-3.42 1.71 1.71 0 0 1 0 3.42Zm12.3 10.85H15.8V14.1c0-1.11-.02-2.53-1.54-2.53-1.54 0-1.78 1.2-1.78 2.45v4.73H9.53V9.2h2.83v1.3h.04c.39-.74 1.36-1.52 2.79-1.52 2.98 0 3.56 1.96 3.56 4.5v5.27Z"/></svg><span>LinkedIn</span></a><a href="https://github.com/mfirmansyahidris" target="_blank" rel="noopener">GitHub</a><a href="assets/Firmansyah-Idris-CV.pdf" target="_blank" rel="noopener">Download CV</a></div></section>
 </main><footer class="wrap footer"><span>© <span id="year">2026</span> M. Firmansyah Idris</span><span>Makassar, Indonesia</span><a href="#home">Back to top</a></footer>
 <script src="script.js" defer></script>
 <script src="assets/vendor/react.production.min.js" defer></script>

diff --git a/README.md b/README.md
@@ -1,6 +1,6 @@
 # Firmansyah Idris — Portfolio
 
-Website portofolio statis dengan penekanan Front-end Developer. Tidak membutuhkan instalasi dependency atau proses build. Semua aset memakai path relatif, sehingga bisa digunakan di GitHub Pages untuk repository biasa maupun repository profil.
+Website portofolio statis dengan penekanan Full Stack & Mobile Developer. Tidak membutuhkan instalasi dependency atau proses build. Semua aset memakai path relatif, sehingga bisa digunakan di GitHub Pages untuk repository biasa maupun repository profil.
 
 ## Isi
 
